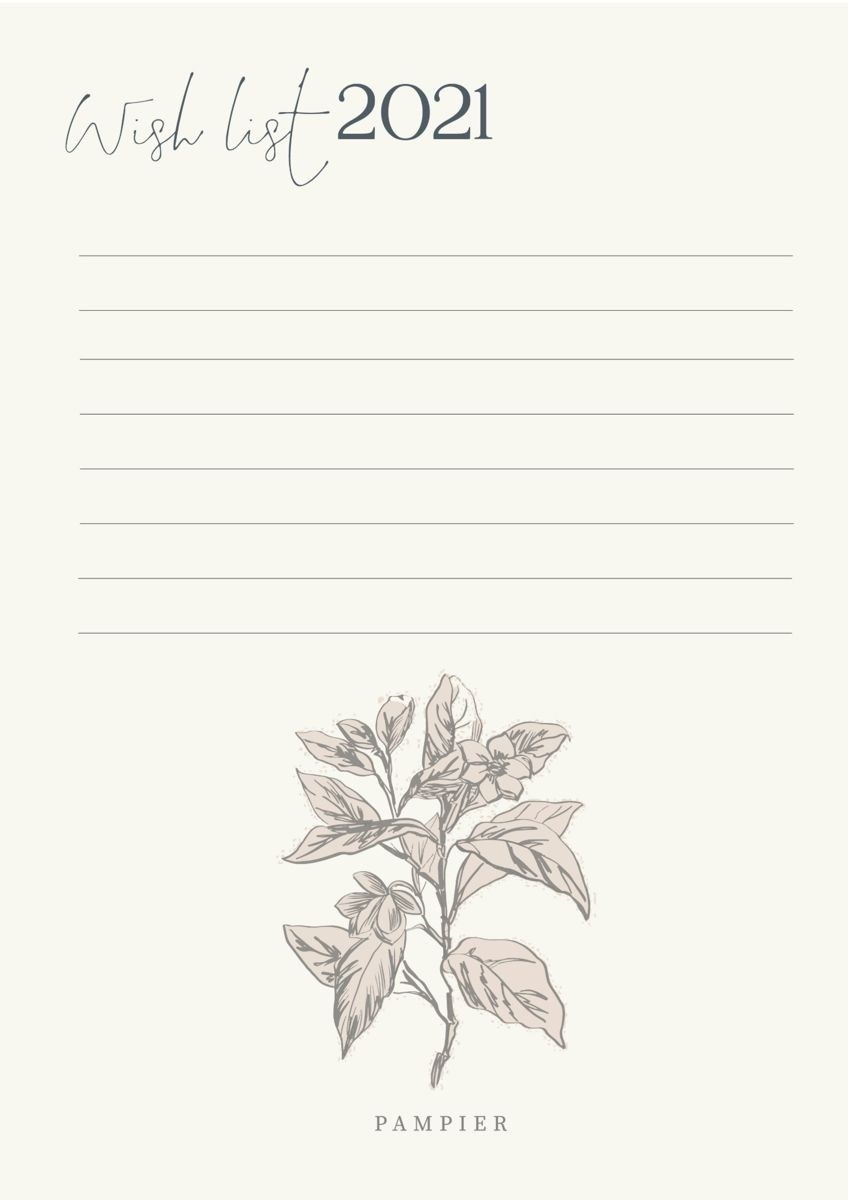
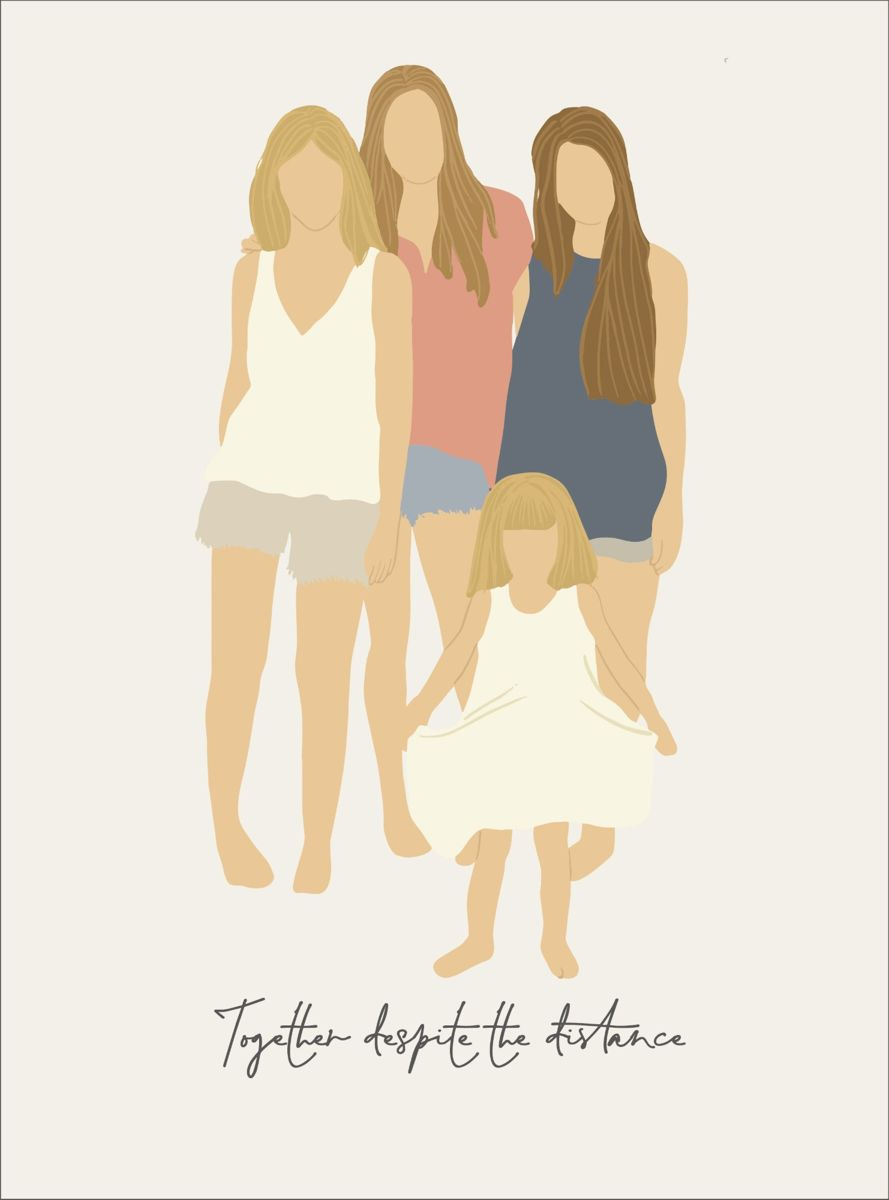
Illustrations: corregir archivos (eran las dos piezas de Pampier por error)

diff --git a/index.html b/index.html
@@ -170,11 +170,11 @@
           <figcaption><strong>Avec son chien</strong><span>Illustration personnalisée · portrait</span></figcaption>
         </figure>
         <figure class="work reveal">
-          <img src="assets/trabajos/illustrations-quatre-soeurs.jpg" alt="Together despite the distance — Portrait de famille · illustration personnalisée" loading="lazy">
+          <img src="assets/trabajos/illustrations-quatre-soeurs.jpg?v=2" alt="Together despite the distance — Portrait de famille · illustration personnalisée" loading="lazy">
           <figcaption><strong>Together despite the distance</strong><span>Portrait de famille · illustration personnalisée</span></figcaption>
         </figure>
         <figure class="work reveal">
-          <img src="assets/trabajos/illustrations-family.jpg" alt="Family — Couple &amp; chien · illustration personnalisée" loading="lazy">
+          <img src="assets/trabajos/illustrations-family.jpg?v=2" alt="Family — Couple &amp; chien · illustration personnalisée" loading="lazy">
           <figcaption><strong>Family</strong><span>Couple &amp; chien · illustration personnalisée</span></figcaption>
         </figure>
       </div>
